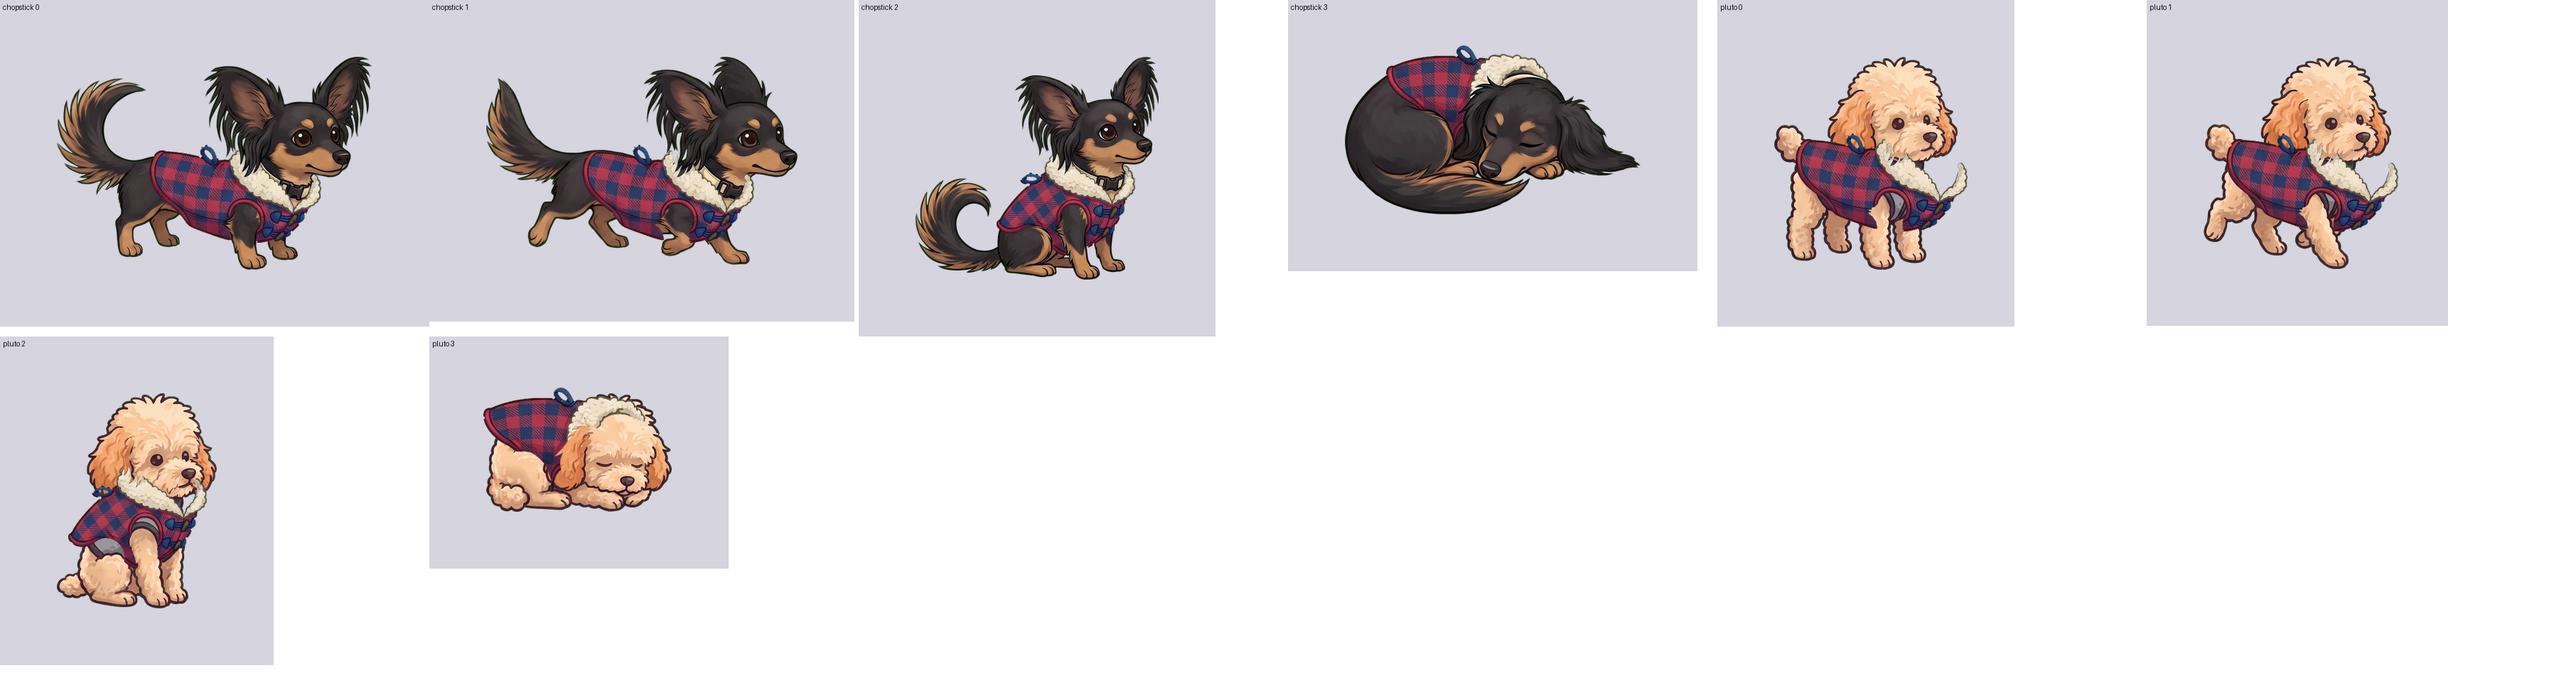
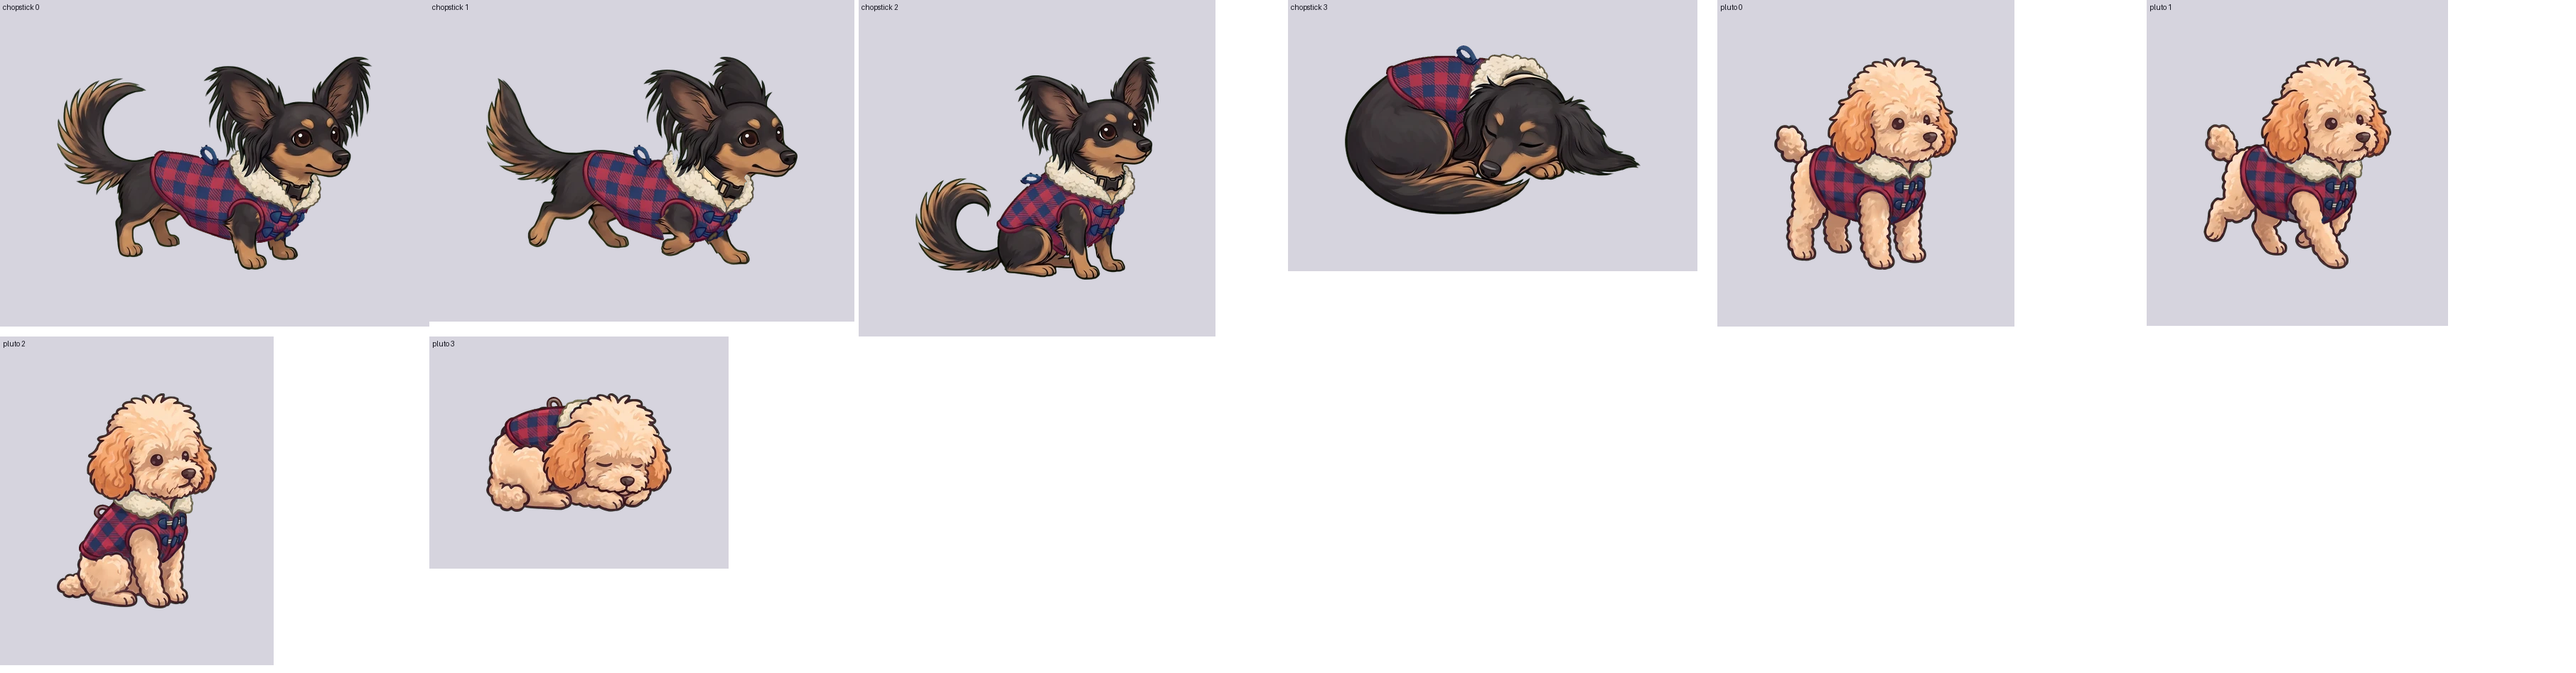
ROOMS: pd_fleece Pluto cells (fleece done); pd_hearts aura; pet_wear.py aurashrink
- pd_fleece: Pluto's sheet appended; covers his grey vest in all four frames
- pd_hearts: painted as big as the dog's head and wider than the frame, so pet_wear.py aurashrink shrinks each heart to
  0.5 round its own centre and pulls it to 0.78 of its distance from the pivot (back and front halves together, so a
  heart cut by the back/front line stays whole). Cherry and cream hearts, a few with navy stitching, none on a face.

diff --git a/quest-board/tools/pet_wear.py b/quest-board/tools/pet_wear.py
@@ -5,6 +5,7 @@
   pet_wear.py cut <sheet.png> <piece id> <kind> [--append]  (--append adds cells after the existing ones) kind: head | neck | body | base | aura (base: the slime's base band pieces,
                                                          cells by the body fit, placed on the neck anchor)
   pet_wear.py check <piece id> <out.png>                 the piece worn on every frame, as the game places it
+  pet_wear.py aurashrink <piece id> <es> <ps>            an aura painted too big: elements to es of their size, ps of their distance
   pet_wear.py headaura <piece id>                        an aura placed on the head anchor (mass centre where the head is null)
 
 A template is a 2048 x 2048 flat green sheet with the given frames of the pet (pgx_<pet>_<f>, or the dogs' dgx_<dog>_<f> when
@@ -291,9 +292,44 @@ def headaura(pid):
     print(pid, "head-anchored", [c["pivot"] for c in e["cells"]])
 
 
+def aurashrink(pid, es, ps):
+    """an aura painted too big: every element (a heart, a bubble) shrinks to es round its own centre and moves to ps of its
+    distance from the pivot, so the ring tightens without redrawing anything. Back and front cells (pairs 0-1, 2-3, ...) are
+    worked together, so an element cut by the back/front line keeps its two halves joined. Rewrites in place, same pivot."""
+    p = os.path.join(ROOT, "data", "pet_clothes.json")
+    d = json.load(open(p))
+    e = d[pid]
+    assert e["kind"] == "aura"
+    cells = e["cells"]
+    for k in range(0, len(cells), 2):
+        pair = cells[k:k + 2]
+        paths = [os.path.join(APP, "ppc_%s_%d.webp" % (pid, c["cell"])) for c in pair]
+        arrs = [np.asarray(Image.open(q).convert("RGBA")) for q in paths]
+        H, W = arrs[0].shape[:2]
+        px, py = pair[0]["pivot"]
+        union = np.zeros((H, W), bool)
+        for a in arrs:
+            union |= a[..., 3] > 0
+        lab, n = ndi.label(ndi.binary_dilation(union, iterations=2))
+        outs = [Image.new("RGBA", (W, H)) for _ in arrs]
+        for j, sl in enumerate(ndi.find_objects(lab)):
+            m = (lab[sl] == j + 1)[..., None]
+            cy, cx = (sl[0].start + sl[0].stop) / 2, (sl[1].start + sl[1].stop) / 2
+            w = max(1, round((sl[1].stop - sl[1].start) * es))
+            h = max(1, round((sl[0].stop - sl[0].start) * es))
+            nx, ny = px + (cx - px) * ps, py + (cy - py) * ps
+            for a, o in zip(arrs, outs):
+                im = Image.fromarray((a[sl] * m).astype(np.uint8)).resize((w, h), Image.LANCZOS)
+                o.alpha_composite(im, (int(round(nx - w / 2)), int(round(ny - h / 2))))
+        for o, q in zip(outs, paths):
+            o.save(q, quality=90, method=6)
+    print(pid, "shrunk", es, ps)
+
 if __name__ == "__main__":
     if sys.argv[1] == "template":
         template(sys.argv[2], sys.argv[3], sys.argv[4], float(sys.argv[5]) if len(sys.argv) > 5 else 1.0)
+    elif sys.argv[1] == "aurashrink":
+        aurashrink(sys.argv[2], float(sys.argv[3]), float(sys.argv[4]))
     elif sys.argv[1] == "headaura":
         headaura(sys.argv[2])
     elif sys.argv[1] == "check":
